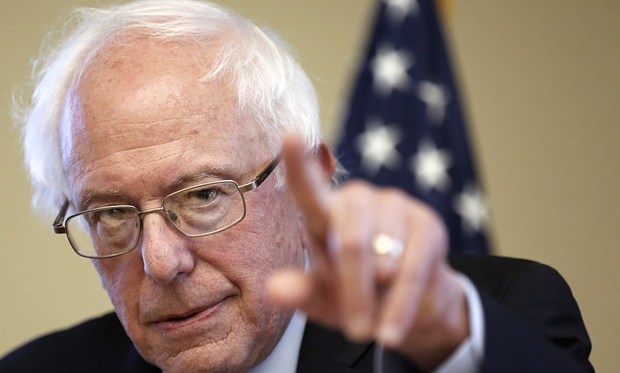
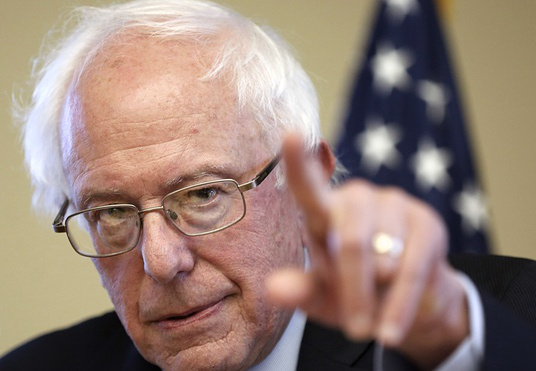
Resize win images

diff --git a/assets/scripts/index.js b/assets/scripts/index.js
@@ -94,7 +94,7 @@ let afterWin = function() {
   } else {
     playerO.wins+=1;
     playerX.losses+=1;
-    $('.player-o-score').text(playerX.wins);
+    $('.player-o-score').text(playerO.wins);
     $('#bernie-win').show();
   }
   $("#scoreBoard").text(playerX.wins);
@@ -331,7 +331,7 @@ $(document).ready(() => {
       console.error(jqxhr);
     });
   });
-//View game history 
+//View game history
   $('#view-history').on('submit', function(e) {
     e.preventDefault();
     if (!myApp.user) {

diff --git a/README.md b/README.md
@@ -1,4 +1,5 @@
 # GA WDI Project 1 - Tic Tac Toe
+<a href="http://jenweber.github.io/jentictactoe/">Project link</a>
 
 ## My Goals
 This game is my first deployed web app, created during week 3 of the General Assembly Web Development Bootcamp. Above and beyond having a working product, I wanted to offer a new experience to the user, since so many people are familiar with tic tac toe already. Although the political theme will quickly become outdated, the prospect of having something that I was proud of, that has a punchline, was such a motivator that I decided to keep that theme, and re-skin it later if needed.
